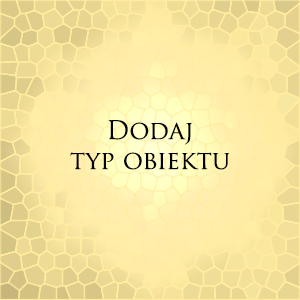
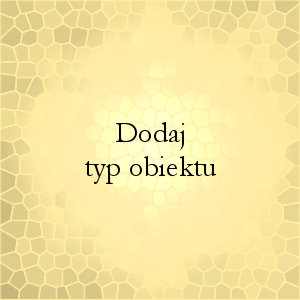
Grafika dla strony głównej części administracyjnej przeniesione do odpowiedniego folderu "admin/images". Nowe grafiki podpięte do samej strony w kodzie. Poprawki w stylizacji CSS (grid.css) dla części administracyjnej.

Changed region(s): [[0.24, 0.39, 0.78, 0.63]]

diff --git a/css/grid.css b/css/grid.css
@@ -20,21 +20,21 @@ div.basic-grey > a:hover > .imagelink {
     height: 250px;
 }
 div.basic-grey.admin {
-    width: 700px;
+    width: 800px;
 }
 div.basic-grey.admin > a {
-    width: 150px;
-    height: 150px;
+    width: 180px;
+    height: 180px;
 }
 div.basic-grey.admin .imagelink {
-    width: 150px;
-    height: 150px;
+    width: 180px;
+    height: 180px;
 }
 div.basic-grey.admin > a:hover > .imagelink {
-    margin-top: -10px;
-    margin-left: -10px;
-    width: 170px;
-    height: 170px;
+    margin-top: -25px;
+    margin-left: -25px;
+    width: 230px;
+    height: 230px;
 }
 #logo {
     width: 403px;

diff --git a/admin/index.php b/admin/index.php
@@ -14,50 +14,50 @@
 
     <div class="basic-grey admin">
         <a href="osrodki.php">
-            <img src="images/osrodki.PNG" alt="Aktualne Rezerwacje" class="imagelink" onmouseover="this.src='images/osrodki.PNG'" onmouseout="this.src='images/osrodki.PNG'" />
+            <img src="images/osrodki.PNG" alt="Aktualne Rezerwacje" class="imagelink" onmouseover="this.src='images/osrodki_hov.PNG'" onmouseout="this.src='images/osrodki.PNG'" />
         </a>
         <a href="klienci.php">
-            <img src="images/klienci.PNG" alt="Aktualne Rezerwacje" class="imagelink" onmouseover="this.src='images/klienci.PNG'" onmouseout="this.src='images/klienci.PNG'" />
+            <img src="images/klienci.PNG" alt="Aktualne Rezerwacje" class="imagelink" onmouseover="this.src='images/klienci_hov.PNG'" onmouseout="this.src='images/klienci.PNG'" />
         </a>
         <a href="pracownicy.php">
-            <img src="images/pracownicy.PNG" alt="Aktualne Rezerwacje" class="imagelink" onmouseover="this.src='images/pracownicy.PNG'" onmouseout="this.src='images/pracownicy.PNG'" />
+            <img src="images/pracownicy.PNG" alt="Aktualne Rezerwacje" class="imagelink" onmouseover="this.src='images/pracownicy_hov.PNG'" onmouseout="this.src='images/pracownicy.PNG'" />
         </a>
         <a href="obiekty.php">
-            <img src="images/obiekty.PNG" alt="Aktualne Rezerwacje" class="imagelink" onmouseover="this.src='images/obiekty.PNG'" onmouseout="this.src='images/obiekty.PNG'" />
+            <img src="images/obiekty.PNG" alt="Aktualne Rezerwacje" class="imagelink" onmouseover="this.src='images/obiekty_hov.PNG'" onmouseout="this.src='images/obiekty.PNG'" />
         </a>
         <a href="osrodek.php">
-            <img src="images/dodaj_osrodek.PNG" alt="Aktualne Rezerwacje" class="imagelink" onmouseover="this.src='images/dodaj_osrodek.PNG'" onmouseout="this.src='images/dodaj_osrodek.PNG'" />
+            <img src="images/dodaj_osrodek.PNG" alt="Aktualne Rezerwacje" class="imagelink" onmouseover="this.src='images/dodaj_osrodek_hov.PNG'" onmouseout="this.src='images/dodaj_osrodek.PNG'" />
         </a>
         <a href="stanowisko.php">
-            <img src="images/dodaj_stanowisko.PNG" alt="Aktualne Rezerwacje" class="imagelink" onmouseover="this.src='images/dodaj_stanowisko.PNG'" onmouseout="this.src='images/dodaj_stanowisko.PNG'" />
+            <img src="images/dodaj_stanowisko.PNG" alt="Aktualne Rezerwacje" class="imagelink" onmouseover="this.src='images/dodaj_stanowisko_hov.PNG'" onmouseout="this.src='images/dodaj_stanowisko.PNG'" />
         </a>
         <a href="pracownik.php">
-            <img src="images/dodaj_pracownika.PNG" alt="Aktualne Rezerwacje" class="imagelink" onmouseover="this.src='images/dodaj_pracownika.PNG'" onmouseout="this.src='images/dodaj_pracownika.PNG'" />
+            <img src="images/dodaj_pracownika.PNG" alt="Aktualne Rezerwacje" class="imagelink" onmouseover="this.src='images/dodaj_pracownika_hov.PNG'" onmouseout="this.src='images/dodaj_pracownika.PNG'" />
         </a>
-        <img src="images/tm.PNG" alt="Aktualne Rezerwacje" class="imagelink" />
+        <img src="images/tm.PNG" alt="Informacje o zespole" class="imagelink" />
         <a href="typ_obiektu.php">
-            <img src="images/dodaj_typ_obiektu.PNG" alt="Aktualne Rezerwacje" class="imagelink" onmouseover="this.src='images/dodaj_typ_obiektu.PNG'" onmouseout="this.src='images/dodaj_typ_obiektu.PNG'" />
+            <img src="images/dodaj_typ_obiektu.PNG" alt="Aktualne Rezerwacje" class="imagelink" onmouseover="this.src='images/dodaj_typ_obiektu_hov.PNG'" onmouseout="this.src='images/dodaj_typ_obiektu.PNG'" />
         </a>
         <a href="domek.php">
-            <img src="images/dodaj_domek.PNG" alt="Aktualne Rezerwacje" class="imagelink" onmouseover="this.src='images/dodaj_domek.PNG'" onmouseout="this.src='images/dodaj_domek.PNG'" />
+            <img src="images/dodaj_domek.PNG" alt="Aktualne Rezerwacje" class="imagelink" onmouseover="this.src='images/dodaj_domek_hov.PNG'" onmouseout="this.src='images/dodaj_domek.PNG'" />
         </a>
         <a href="pokoj.php">
-            <img src="images/dodaj_pokoj.PNG" alt="Aktualne Rezerwacje" class="imagelink" onmouseover="this.src='images/dodaj_pokoj.PNG'" onmouseout="this.src='images/dodaj_pokoj.PNG'" />
+            <img src="images/dodaj_pokoj.PNG" alt="Aktualne Rezerwacje" class="imagelink" onmouseover="this.src='images/dodaj_pokoj_hov.PNG'" onmouseout="this.src='images/dodaj_pokoj.PNG'" />
         </a>
         <a href="inny_obiekt.php">
-            <img src="images/dodaj_inny_obiekt.PNG" alt="Aktualne Rezerwacje" class="imagelink" onmouseover="this.src='images/dodaj_inny_obiekt.PNG'" onmouseout="this.src='images/dodaj_inny_obiekt.PNG'" />
+            <img src="images/dodaj_inny_obiekt.PNG" alt="Aktualne Rezerwacje" class="imagelink" onmouseover="this.src='images/dodaj_inny_obiekt_hov.PNG'" onmouseout="this.src='images/dodaj_inny_obiekt.PNG'" />
         </a>
         <a href="typy_zamowien.php">
-            <img src="images/typy_zamowien.PNG" alt="Aktualne Rezerwacje" class="imagelink" onmouseover="this.src='images/typy_zamowien.PNG'" onmouseout="this.src='images/typy_zamowien.PNG'" />
+            <img src="images/typy_zamowien.PNG" alt="Aktualne Rezerwacje" class="imagelink" onmouseover="this.src='images/typy_zamowien_hov.PNG'" onmouseout="this.src='images/typy_zamowien.PNG'" />
         </a>
         <a href="posilek.php">
-            <img src="images/dodaj_typ_posilku.PNG" alt="Aktualne Rezerwacje" class="imagelink" onmouseover="this.src='images/dodaj_typ_posilku.PNG'" onmouseout="this.src='images/dodaj_typ_posilku.PNG'" />
+            <img src="images/dodaj_typ_posilku.PNG" alt="Aktualne Rezerwacje" class="imagelink" onmouseover="this.src='images/dodaj_typ_posilku_hov.PNG'" onmouseout="this.src='images/dodaj_typ_posilku.PNG'" />
         </a>
         <a href="usluga.php">
-            <img src="images/dodaj_typ_uslugi.PNG" alt="Aktualne Rezerwacje" class="imagelink" onmouseover="this.src='images/dodaj_typ_uslugi.PNG'" onmouseout="this.src='images/dodaj_typ_uslugi.PNG'" />
+            <img src="images/dodaj_typ_uslugi.PNG" alt="Aktualne Rezerwacje" class="imagelink" onmouseover="this.src='images/dodaj_typ_uslugi_hov.PNG'" onmouseout="this.src='images/dodaj_typ_uslugi.PNG'" />
         </a>
         <a href="wypozyczenie.php">
-            <img src="images/dodaj_typ_wypozyczenia.PNG" alt="Aktualne Rezerwacje" class="imagelink" onmouseover="this.src='images/dodaj_typ_wypozyczenia.PNG'" onmouseout="this.src='images/dodaj_typ_wypozyczenia.PNG'" />
+            <img src="images/dodaj_typ_wypozyczenia.PNG" alt="Aktualne Rezerwacje" class="imagelink" onmouseover="this.src='images/dodaj_typ_wypozyczenia_hov.PNG'" onmouseout="this.src='images/dodaj_typ_wypozyczenia.PNG'" />
         </a>
     </div>
 </body>
